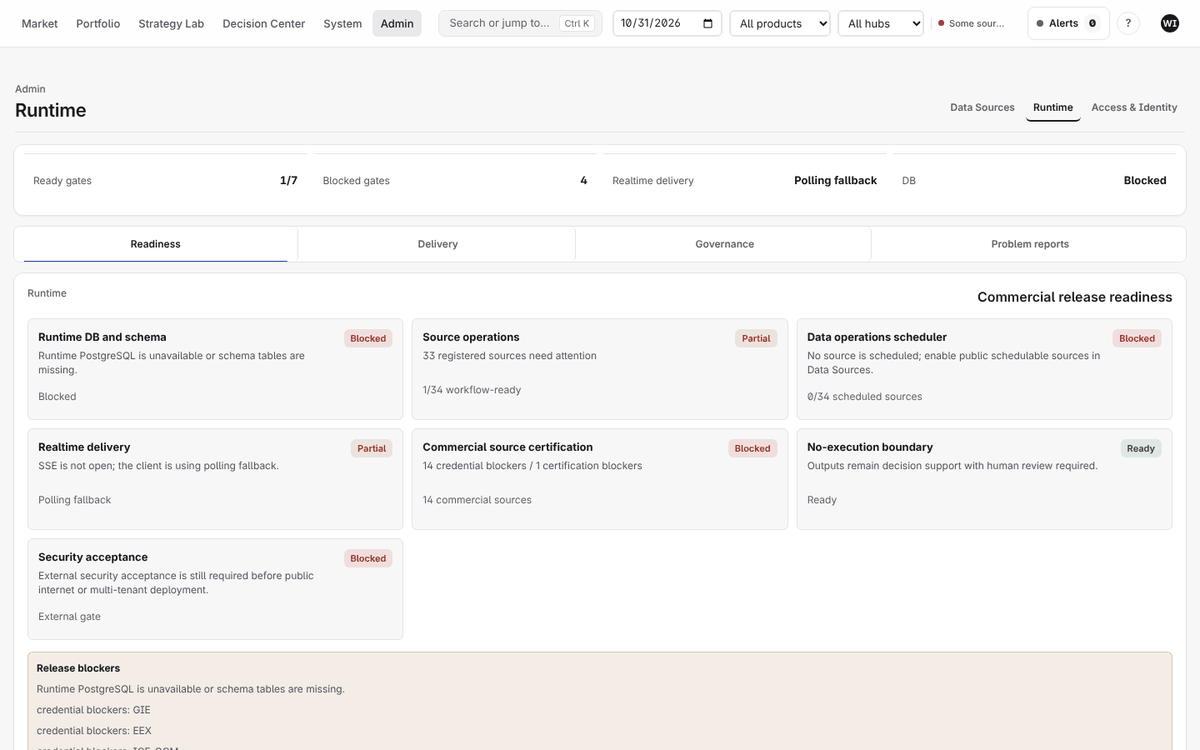
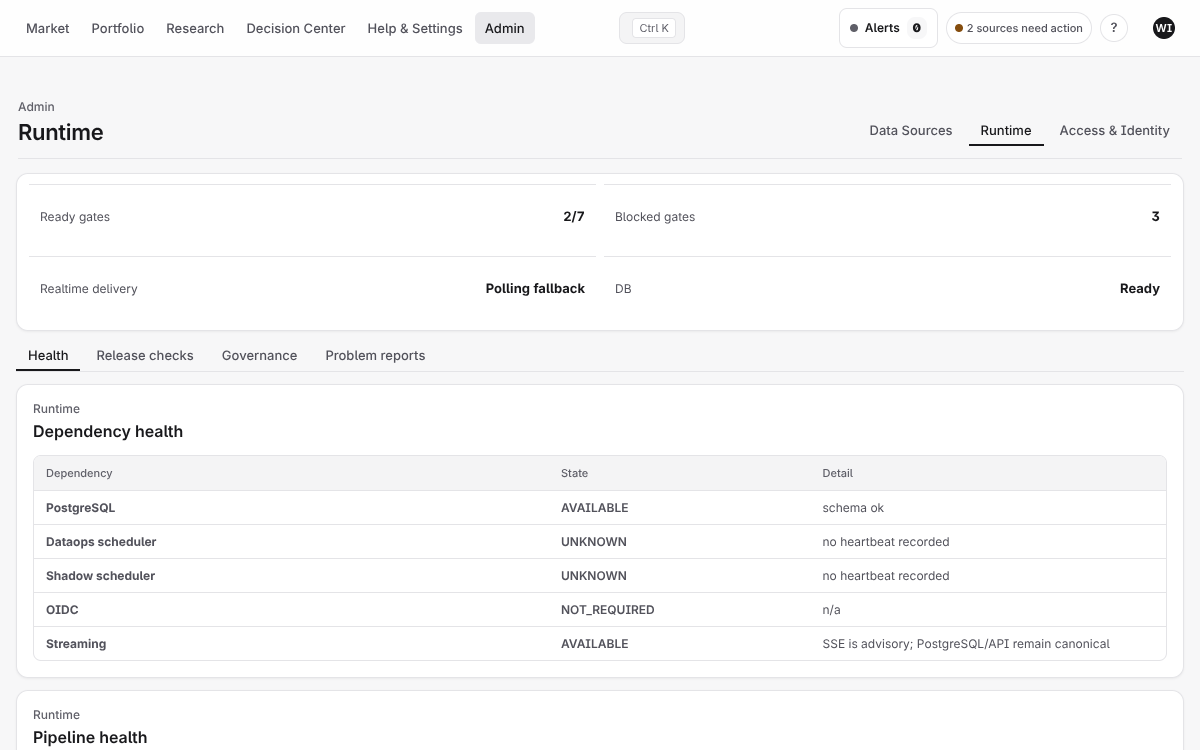
Docs: Connectors, Health and Help & Settings in the manual and guides
Menu paths follow the new structure (Help & Settings, Research → Research Data, Admin →
Access & Identity → SSO); the IT desk page describes the Connectors groups and Runtime's
Health and Release checks; its two screenshots are retaken from the running product.

Claude-Session: https://claude.ai/code/session_01QYvN3zbuoHVdkQLCAyZn6k

diff --git a/docs/user/manual/IT_DESK.md b/docs/user/manual/IT_DESK.md
@@ -30,14 +30,18 @@ under Admin → **Runtime** → **Problem reports**.
 
 ## 2. Check the platform
 
-Admin → **Data Sources** lists every source with its state, last success, freshness and
-failures. A source that needs the customer's own key (GIE, ENTSO-E, EEX, ICE) says so;
-it is not an outage.
+Admin → **Data Sources** opens on **Connectors**: *Needs attention* (something that was set
+up and stopped working: a failure, a stale feed, a lost key), *Connected* and *Available*
+(offered but never set up). An optional provider that needs the customer's own key (GIE,
+ENTSO-E, EEX, ICE) sits under Available until it is connected; it is not an outage. The
+**Catalog** tab keeps the full table with freshness, next run and failures.
 
 ![Data sources](img/it-05-sources.png)
 
-Admin → **Runtime** shows the release gates (database and schema, scheduler, realtime
-delivery, certification, security acceptance), the job timeline and diagnostics.
+Admin → **Runtime** opens on **Health** (dependencies, pipeline runs, quote freshness).
+**Release checks** holds the release gates (database and schema, scheduler, realtime
+delivery, certification, security acceptance); **Governance** and **Problem reports**
+follow.
 
 Scheduled operations the IT desk runs (cron or the Windows task scheduler):
 

diff --git a/docs/user/QUICK_START.md b/docs/user/QUICK_START.md
@@ -17,7 +17,7 @@ to use for the first check. Administrators configure the sources your desk needs
    account are different sign-in arrangements; use the one assigned to this installation.
 3. On a managed desktop, confirm the preconfigured service address. If IT asks you to
    enter it, use the supplied HTTPS API address ending in `/api`.
-4. Open **System → Settings**. Set your language, appearance and preferred market display.
+4. Open **Help & Settings → Settings**. Set your language, appearance and preferred market display.
 
 **Check the result:** your name appears in the account menu and you can open the workspaces
 assigned to you. If sign-in succeeds but a workspace is restricted, ask IT to check your

diff --git a/docs/guides/README.md b/docs/guides/README.md
@@ -37,7 +37,7 @@ The available workspaces depend on your access and job profile. A job profile or
 your workspace; roles and data scopes determine the actions and information available.
 See [Roles and responsibilities](../product/ROLES_AND_RESPONSIBILITIES.md).
 
-Open **System → Settings** for language, appearance and personal display preferences.
+Open **Help & Settings → Settings** for language, appearance and personal display preferences.
 The account menu opens the same settings and provides sign out. Keyboard users can open
 search with **Ctrl+K**, or **⌘K** where supported; touch users can select the search control.
 

diff --git a/docs/guides/SUPPORT_AND_UPDATES.md b/docs/guides/SUPPORT_AND_UPDATES.md
@@ -35,7 +35,7 @@ arrangement; record them in the [onboarding record](CLIENT_ONBOARDING.md).
 4. Include the saved case/run/source identifiers and request/correlation ID where available.
 5. Attach relevant diagnostics or a screenshot through the approved support channel.
 
-Open **System → Settings** and use **About & Diagnostics**. Review attachments before sending;
+Open **Help & Settings → Settings** and use **About & Diagnostics**. Review attachments before sending;
 share only the information needed for the investigation. Keep credentials and sensitive
 trading information in the firm's approved channels.
 

diff --git a/docs/guides/ADMIN_AND_OPERATIONS.md b/docs/guides/ADMIN_AND_OPERATIONS.md
@@ -26,7 +26,8 @@ Platform administration and commercial-data access are separate permissions.
 
 ## Connect a source
 
-1. Open **Admin → Data Sources** and inspect the source's connector status.
+1. Open **Admin → Data Sources**. The **Connectors** view groups sources as Needs attention,
+   Connected and Available; choose the source and read its detail panel.
 2. Configure the supported credential method, if required.
 3. Complete the source's access/certification checks where applicable.
 4. Enable the source and confirm its ingestion schedule or import process.

diff --git a/docs/guides/ANALYST_QUANT.md b/docs/guides/ANALYST_QUANT.md
@@ -31,7 +31,7 @@ period and costs. Create a new draft when changing a frozen specification.
 
 ## Build a research dataset
 
-1. Open **System → Research Data → Datasets**.
+1. Open **Research → Research Data → Datasets**.
 2. Select registered targets, features, entities and the observation window.
 3. Set the relevant resampling and history options, then validate the specification.
 4. Build a snapshot after validation succeeds.

diff --git a/docs/operations/SSO_OIDC.md b/docs/operations/SSO_OIDC.md
@@ -29,7 +29,7 @@ The provider must register the backend callback URI (default
 2. Open `/api/auth/oidc/login`; the provider authorization page appears.
 3. After login, `GET /api/me` returns principal, roles, permissions, scopes
    and a session CSRF token.
-4. Admin sees the SSO profile under System → Access & Identity → SSO.
+4. Admin sees the SSO profile under Admin → Access & Identity → SSO.
 
 ## Failure modes
 
